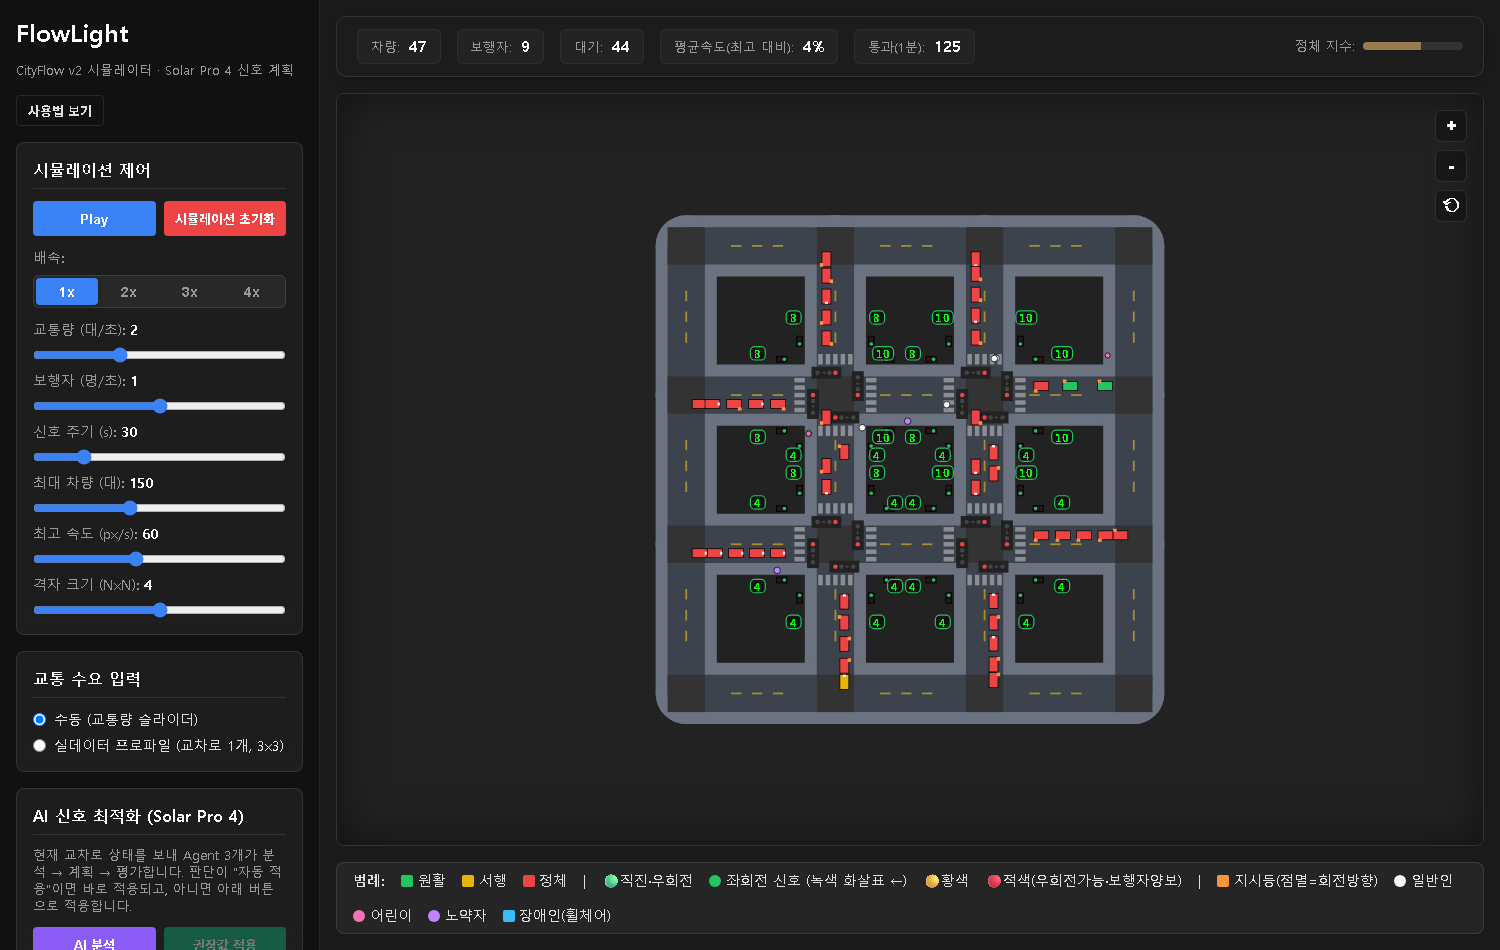
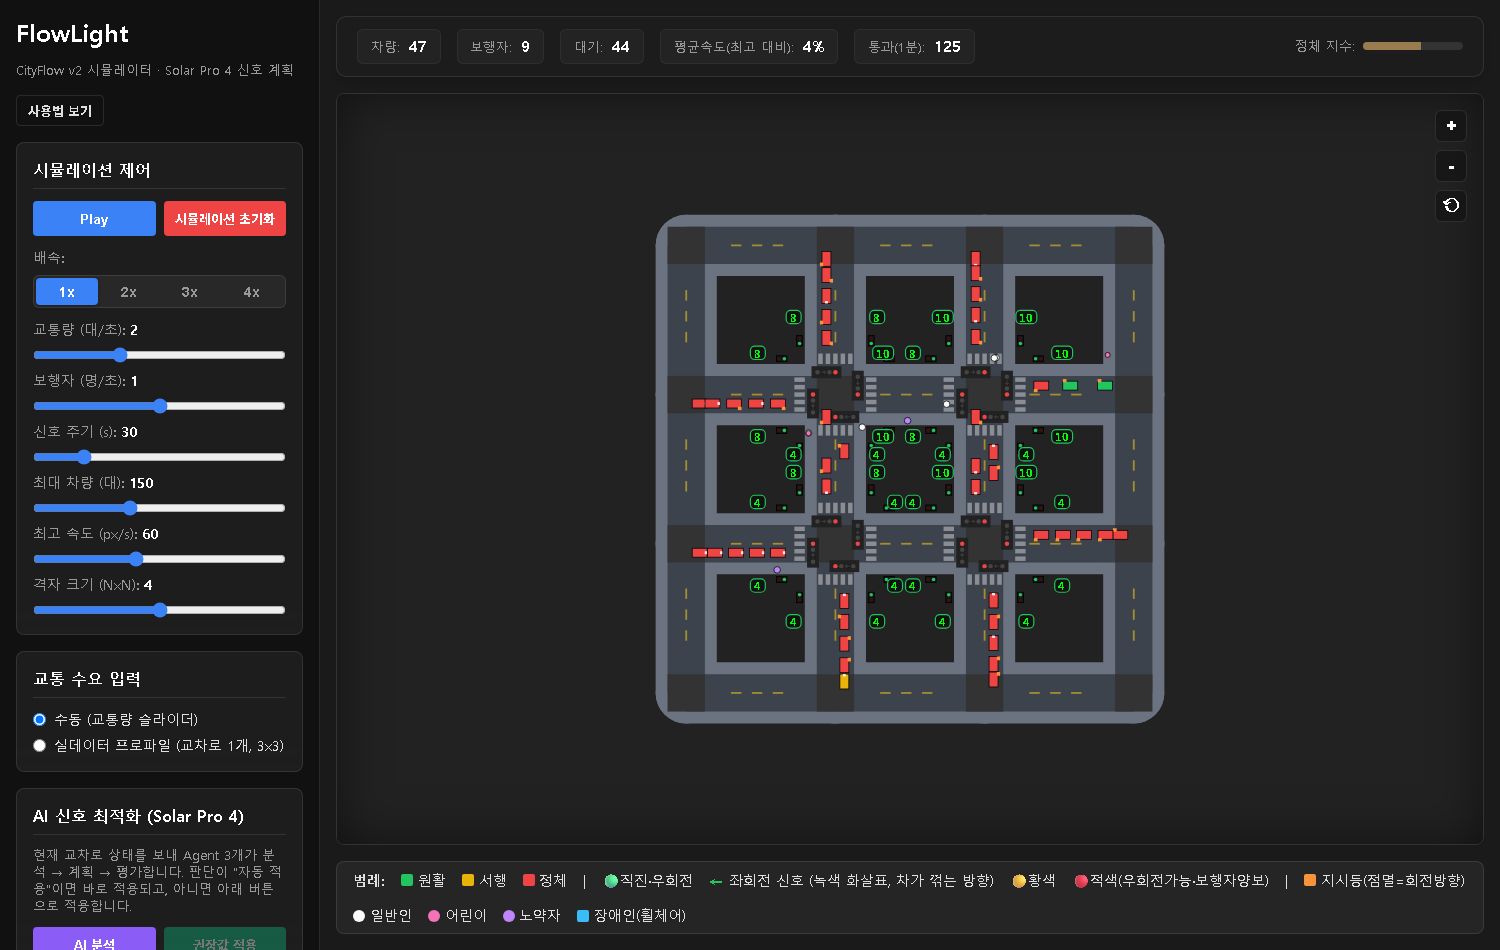
feat: draw the left-turn lamp as a green arrow lens
- Left-turn lamp is the green arrow of a Korean four-lamp head, pointing the way that
  direction's cars actually turn (driver's left on the top-down map); dark lens when off
- Legend shows the green arrow and explains it; GIFs and pedestrian screens re-recorded

diff --git a/app/index.html b/app/index.html
@@ -435,7 +435,7 @@ input[type="range"]:disabled { opacity: 0.35; }
                 <span class="l-item"><span class="color-box" style="background:#ef4444"></span>정체</span>
                 |
                 <span class="l-item">🟢직진·우회전</span>
-                <span class="l-item"><span class="color-box" style="background:#22c55e;border-radius:50%"></span>좌회전 신호 (녹색 화살표 ←)</span>
+                <span class="l-item"><span style="color:#22c55e;font-weight:700;font-size:1.1em">←</span> 좌회전 신호 (녹색 화살표, 차가 꺾는 방향)</span>
                 <span class="l-item">🟡황색</span>
                 <span class="l-item">🔴적색(우회전가능·보행자양보)</span>
                 |
@@ -2045,10 +2045,14 @@ Renderer.prototype.render = function(network, jc, cam) {
                 
                 ctx.fillStyle = cR; ctx.beginPath(); ctx.arc(0, -6, 1.5, 0, Math.PI*2); ctx.fill();
                 ctx.fillStyle = cY; ctx.beginPath(); ctx.arc(0, -2, 1.5, 0, Math.PI*2); ctx.fill();
-                // 좌회전 등: 한국 4색 신호등처럼 녹색 화살표(←). 진행 방향이 +x 이므로 운전자의 왼쪽은 -y 쪽이다.
-                ctx.fillStyle = '#1a1a1a'; ctx.beginPath(); ctx.arc(0, 2, 1.5, 0, Math.PI*2); ctx.fill();
-                ctx.strokeStyle = cL; ctx.lineWidth = 0.7; ctx.lineCap = 'round';
-                ctx.beginPath(); ctx.moveTo(0, 3.3); ctx.lineTo(0, 0.9); ctx.moveTo(-0.9, 1.8); ctx.lineTo(0, 0.9); ctx.lineTo(0.9, 1.8); ctx.stroke();
+                // 좌회전 등: 한국 4색 신호등의 녹색 왼쪽 화살표(←) 렌즈. 위에서 내려다보는 화면이므로 운전자 기준 왼쪽,
+                // 즉 그 방향 차가 실제로 꺾는 쪽을 가리키게 그린다 (진행 방향 +x 에서 왼쪽은 -y). 꺼지면 어두운 렌즈, 켜지면 녹색.
+                ctx.fillStyle = '#1a1a1a'; ctx.beginPath(); ctx.arc(0, 2, 1.7, 0, Math.PI*2); ctx.fill();
+                ctx.save();
+                ctx.translate(0, 2);
+                ctx.strokeStyle = cL === '#444' ? '#3a3a3a' : cL; ctx.lineWidth = 0.85; ctx.lineCap = 'round'; ctx.lineJoin = 'round';
+                ctx.beginPath(); ctx.moveTo(0, 1.3); ctx.lineTo(0, -1.3); ctx.moveTo(-1.0, -0.3); ctx.lineTo(0, -1.3); ctx.lineTo(1.0, -0.3); ctx.stroke();
+                ctx.restore();
                 ctx.fillStyle = cG; ctx.beginPath(); ctx.arc(0,  6, 1.5, 0, Math.PI*2); ctx.fill();
                 
                 // 실제 신호 남은 시간 표시
